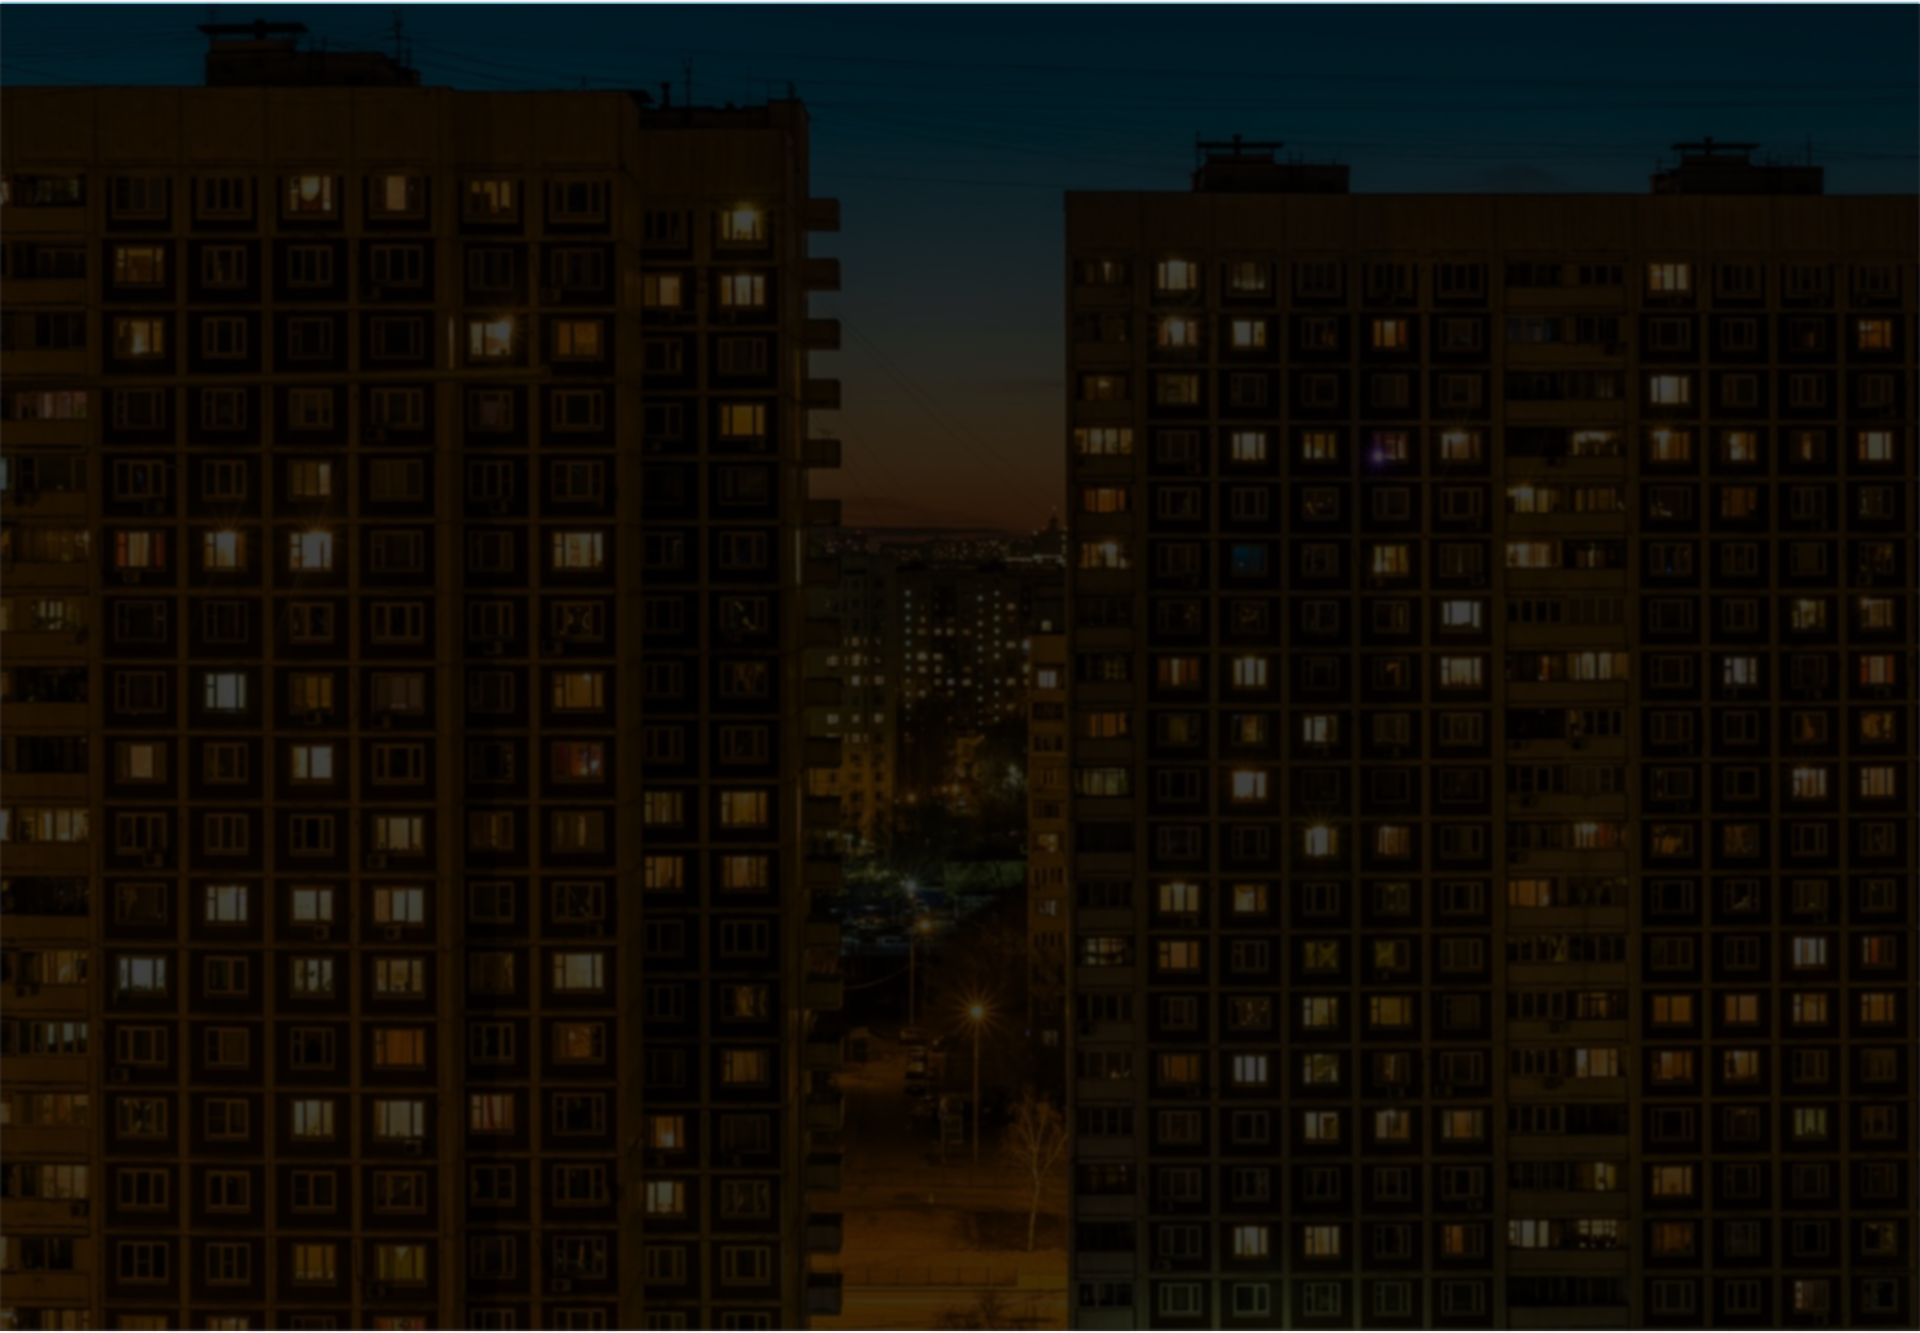
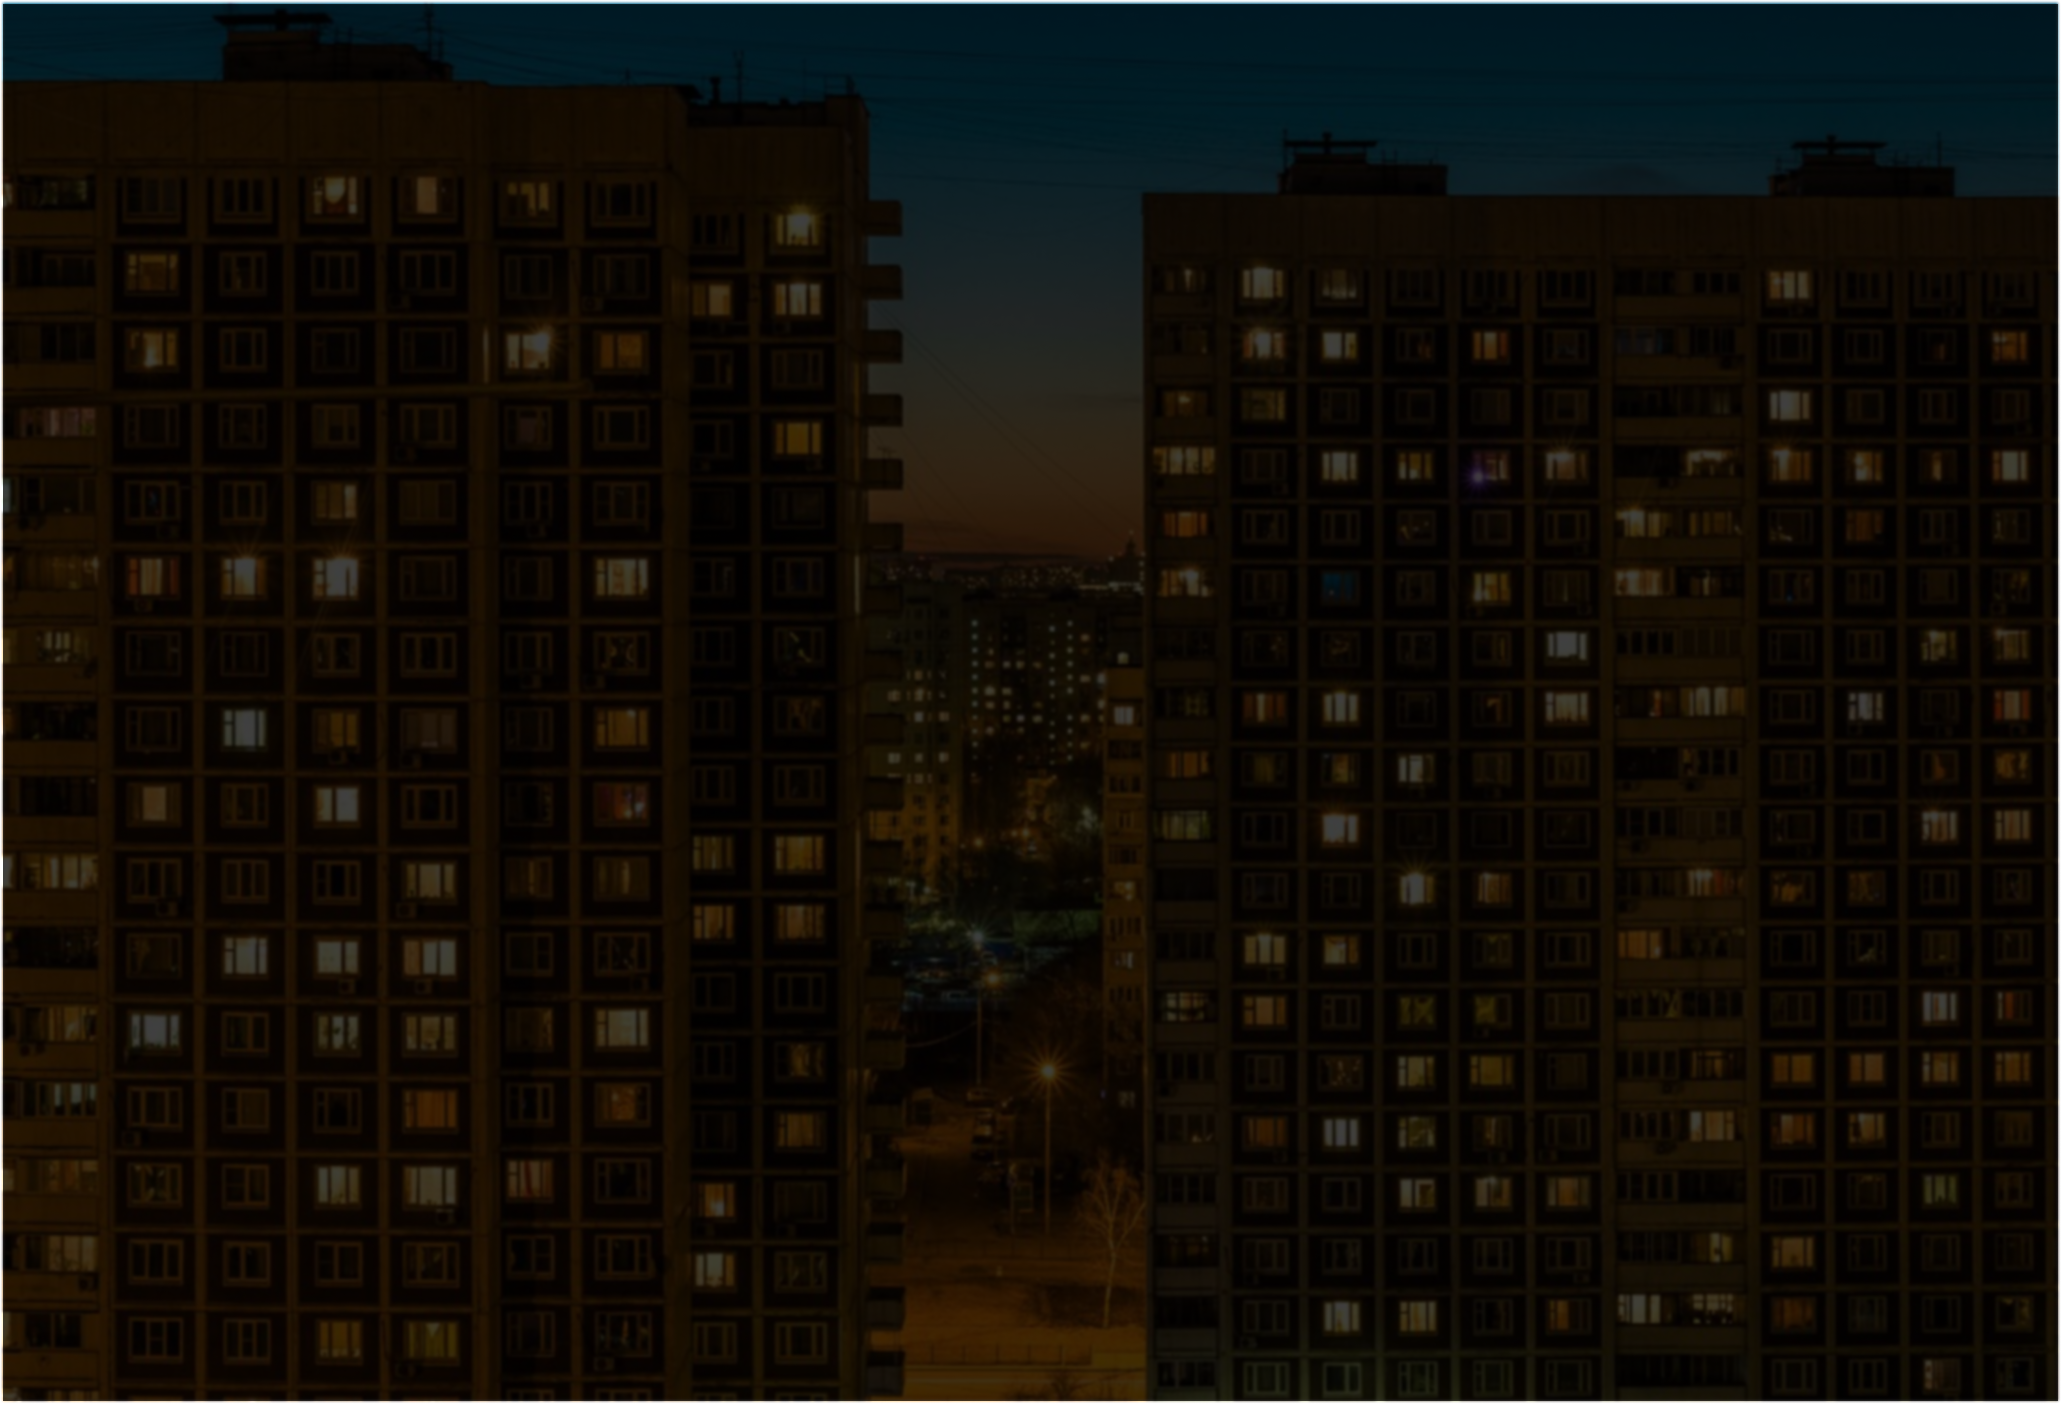
Eding styles, sticky TopNav

diff --git a/client/components/MainSection/MainSection.module.scss b/client/components/MainSection/MainSection.module.scss
@@ -3,13 +3,15 @@
     background-size: cover 50px;
     background-position: center -140px;
     height: 1079px;
+    padding-top: 20px;
 }
 
 .nav {
     background: url("/img/nav_bg.png") no-repeat;
     background-size: cover;
     background-position: center;
-    height: 155px;
+    // height: 155px;
+    height: 164px;
 }
 
 .navWrap {
@@ -19,7 +21,8 @@
 }
 .circle {
     width: 155px;
-    height: 155px;
+    // height: 155px;
+    height: 164px;
     display: flex;
     justify-content: center;
     align-items: center;
@@ -72,6 +75,20 @@
     text-align: center;
     padding-top: 65px;
     margin-bottom: 275px;
+}
+@media screen and (min-width: 2210px) {
+    .section {
+        background-size: cover;
+        background-position: 0 0px;
+        height: 1179px;
+    }    
+}
+@media screen and (min-width: 1900px) {
+    .section {
+        background-size: cover;
+        background-position: 0 -220px;
+        height: 980px;
+    }    
 }
 @media screen and (max-width: 1200px) {
     .titleText{

diff --git a/client/pages/index.tsx b/client/pages/index.tsx
@@ -6,6 +6,7 @@ import PartnersSection from '../components/PartnersSection/PartnersSection'
 import ReviewsSection from '../components/ReviewsSection/ReviewsSection'
 import SaleSection from '../components/SaleSection/SaleSection'
 import ServiceSection from '../components/ServiceSection/ServiceSection'
+import TopNav from '../components/TopNav/TopNav'
 import MainLayout from '../layouts/MainLayout/MainLayout'
 import s from './index.module.scss'
 
@@ -13,6 +14,7 @@ function Index() {
   return (
     <div>
       <MainLayout >
+        <TopNav />
         <MainSection />
         <SaleSection />
         <ArendaSection />

diff --git a/client/components/TopNav/TopNav.module.scss b/client/components/TopNav/TopNav.module.scss
@@ -3,7 +3,9 @@
     justify-content: center;
     background-color: #000;
     height: 55px;
-    margin-bottom: 20px;
+    position: sticky;
+    top: 0px;
+    z-index: 99;
 }
 .wrap {
     display: flex;
@@ -15,6 +17,7 @@
     display: flex;
     align-items: center;
     width: 250px;
+    cursor: pointer;
 }
 .item:first-child{
     width: 260px;
@@ -43,6 +46,11 @@
         transition: .5s;
     }
 }
+// @media screen and (min-width: 1900px) {
+//     .topnav {
+//         // margin-bottom: 40px;
+//     }
+// }
 
 @media screen and (max-width: 768px) {
     .wrap {

diff --git a/client/components/MainSection/MainSection.tsx b/client/components/MainSection/MainSection.tsx
@@ -10,7 +10,6 @@ type MainSectionProps = {}
 const MainSection: React.FC<MainSectionProps> = () => {
     return (
         <div className={s.section}>
-            <TopNav />
             <div className={s.nav}>
                 <div className="container">
                     <div className={s.navWrap}>
